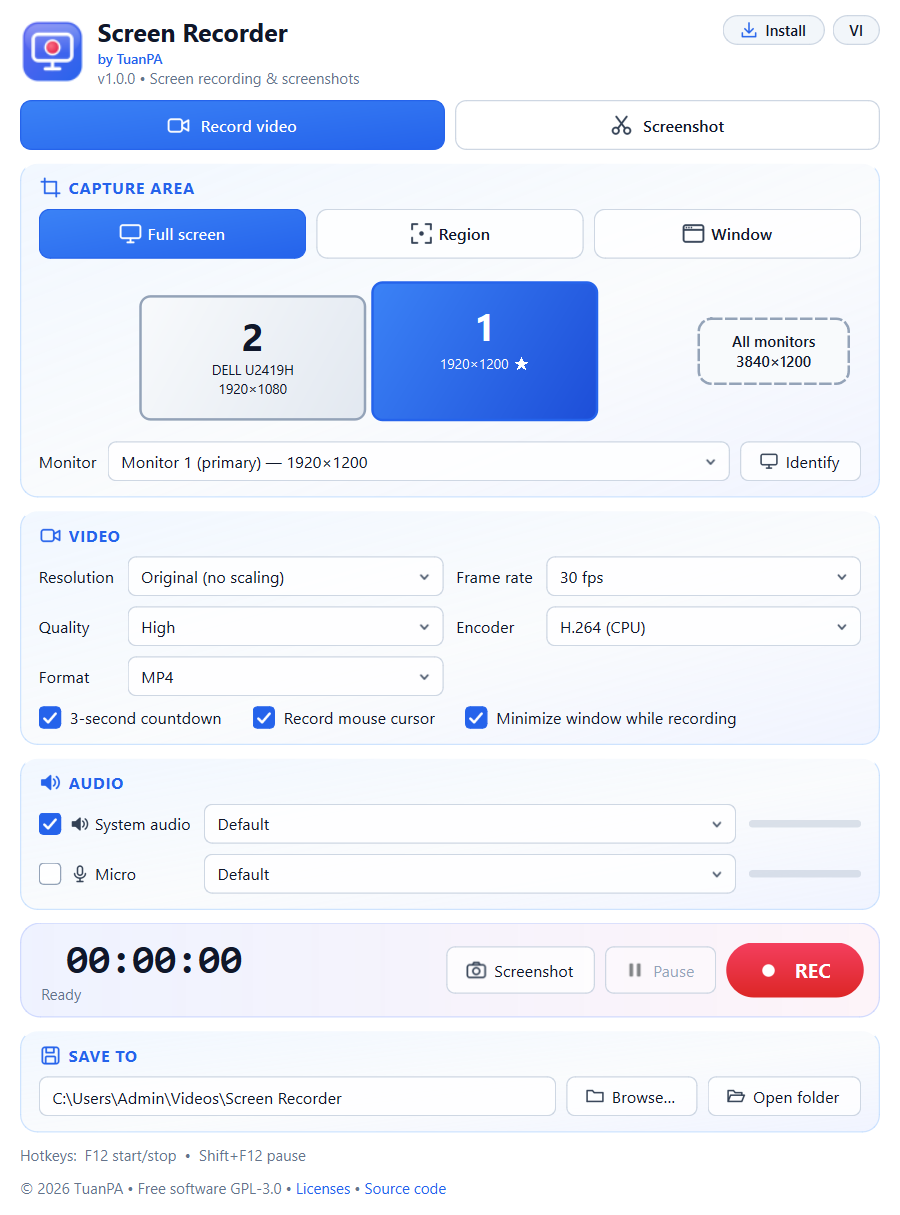
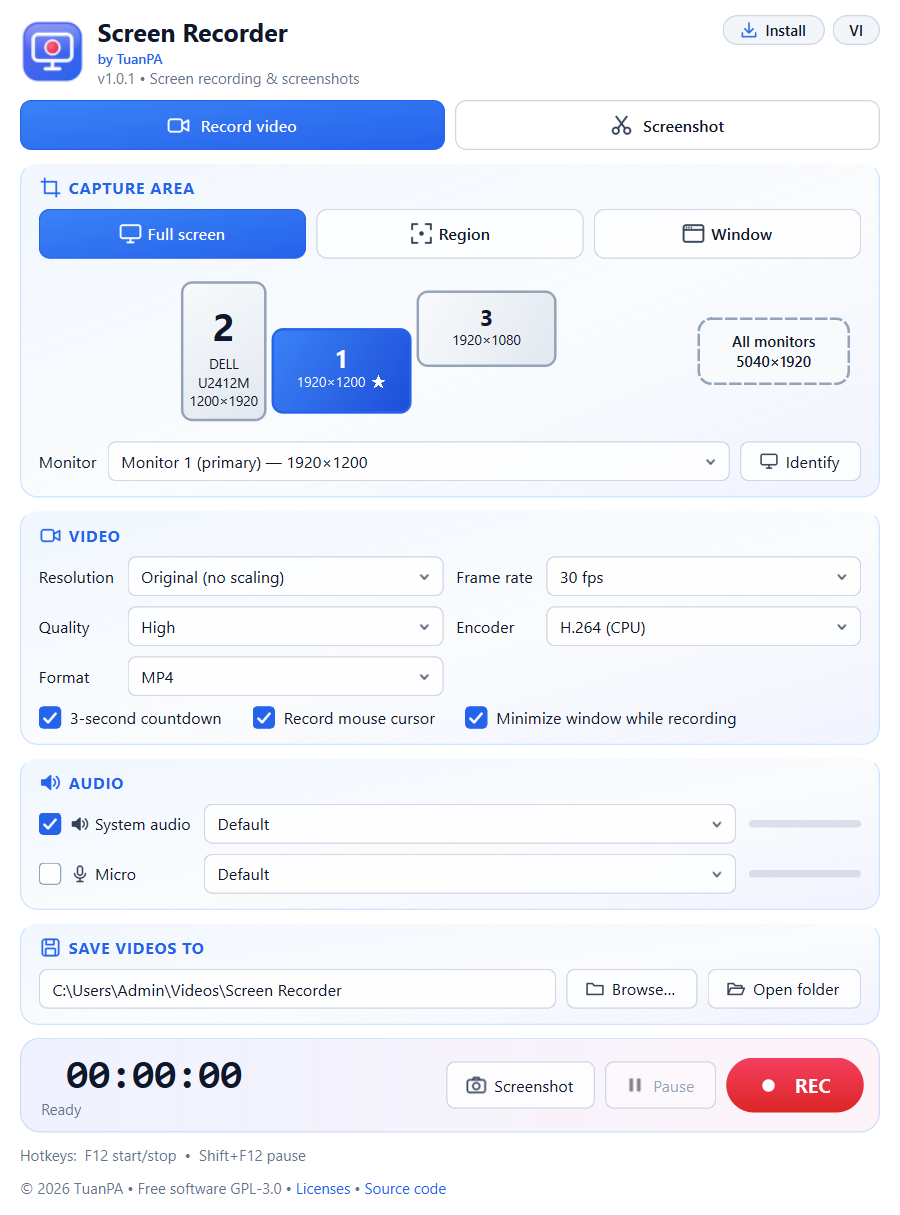
Add files via upload

diff --git a/docs/USER_GUIDE.md b/docs/USER_GUIDE.md
@@ -15,7 +15,7 @@
    - *Cửa sổ*: chọn cửa sổ trong danh sách (⟳ để làm mới). App quay đúng khu vực của cửa sổ đó.
 2. **Video**: độ phân giải, khung hình (fps), chất lượng, bộ mã hoá (H.264 CPU; NVENC/QuickSync/AMF nếu có), định dạng MP4 hoặc MKV (an toàn khi mất điện).
 3. **Âm thanh**: *Âm thanh hệ thống* (tiếng phát ra loa) và/hoặc *Micro*, chọn thiết bị; thanh xanh cho biết mức âm khi đang quay.
-4. **REC** (hoặc **F12**) để bắt đầu; **Tạm dừng** (Shift+F12); **DỪNG** (F12) để lưu. File `Rec_<ngày>_<giờ>.mp4` nằm ở thư mục *Lưu vào*.
+4. **REC** (hoặc **F12**) để bắt đầu; **Tạm dừng** (Shift+F12); **DỪNG** (F12) để lưu. File `Rec_<ngày>_<giờ>.mp4` nằm ở thư mục *Lưu video vào* (chỉnh ở cuối tab).
 
 ## 3. Chụp ảnh (tab *Chụp ảnh*)
 ![Chụp ảnh](screenshots/main_snip_vi.png)
@@ -24,7 +24,7 @@
   - Nếu chọn Print Screen mà Windows vẫn mở Snipping Tool: *Settings › Accessibility › Keyboard* › tắt *Use the Print screen key to open screen capture*.
 - **Chế độ**: vùng chữ nhật, **tự do** (kéo chuột theo hình bất kỳ), cửa sổ, toàn màn hình. Trong lúc chụp: `R` / `D` / `W` / `F` đổi chế độ, `Enter` chụp cả màn hình, `Esc` hoặc chuột phải để huỷ.
 - **Hẹn giờ** 3/5/10 giây để kịp mở menu cần chụp.
-- **Sau khi chụp**: ảnh luôn được copy vào bộ nhớ tạm (dán bằng Ctrl+V). Tuỳ chọn: mở trình chỉnh sửa, tự lưu vào `…\Screenshots`, hiện thông báo.
+- **Sau khi chụp**: ảnh luôn được copy vào bộ nhớ tạm (dán bằng Ctrl+V). Tuỳ chọn: mở trình chỉnh sửa, tự lưu, hiện thông báo. Thư mục lưu ảnh chỉnh ở ô *Lưu ảnh vào* (mặc định `…\Screen Recorder\Screenshots`), độc lập với thư mục video.
 - **Khởi động cùng Windows** (bản exe): chạy nền ở khay để phím tắt luôn sẵn sàng.
 
 ![Thông báo](screenshots/toast_vi.png)
